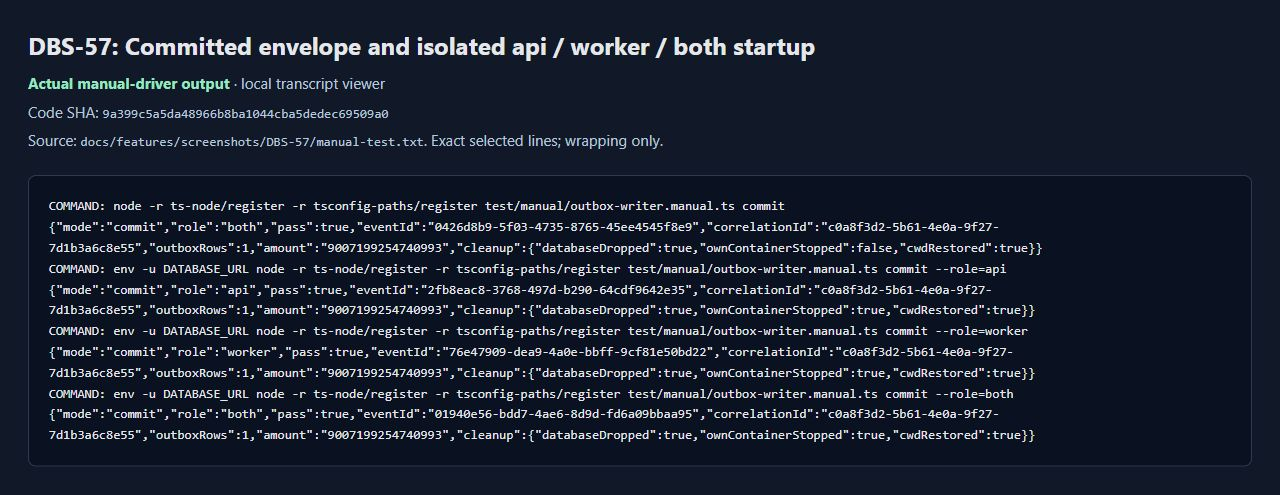
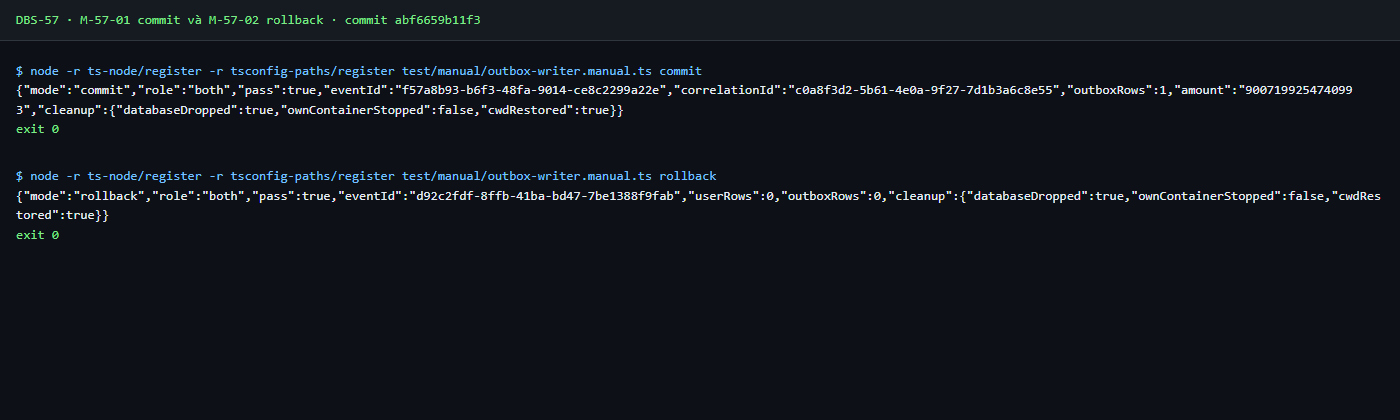
docs(outbox): record DBS-57 round-2 review fixes

diff --git a/docs/features/DBS-57-outbox-writer.md b/docs/features/DBS-57-outbox-writer.md
@@ -497,3 +497,77 @@ Thứ tự migration → service → controller không áp dụng: không có mi
 | Xung đột PR | 4 file | S6 |
 
 **Quyết định ở G3 (vòng 2):** người dùng trả lời «duyệt» ngày 2026-10-31. BL-123 cho bàn giao #3 (kiểm lại khi merge `main`); push một lần sau G4.
+
+### R8. Kết quả vòng 2
+
+**Lệnh kiểm tra** trên HEAD `abf6659` (sau merge `origin/main` `5562884`), tại `backend/`. Output thô ở [verification.txt](screenshots/DBS-57/verification.txt), phần "Vòng 2".
+
+| Lệnh | Kết quả |
+|---|---|
+| `npm run lint:check` | exit 0 |
+| `npm run typecheck` | exit 0 |
+| `npm test -- --runInBand` | 42 suites, 576/576 đạt, 0 skipped |
+| `npm run test:db -- --runInBand` | 12 suites, 248/248 đạt (163,9 s) |
+| `npm run test:e2e -- --runInBand` | 8 suites, 57/57 đạt. Chạy trên container `postgres:17` ở cổng 55432 vì cổng 5432 là PostgreSQL 18 native |
+| `npm run test:services -- --runInBand` | 1 suite, 2/2 đạt (suite mới từ `main`) |
+| `npm run build` | exit 0 |
+
+Không có `.skip`, `.only` hay `.todo` trong test của task. **Full DB đạt trên máy này** (12 suites, không thoát `0xC0000409`), nhưng BL-125 chưa coi là đã sửa: đây là một lượt xanh, không phải bằng chứng nguyên nhân gốc. Thời gian full DB là 163,9 s với 12 suites; riêng bootstrap giảm từ ba container xuống dùng chung một server (24 s cho 3 ca).
+
+**Đối chiếu test case vòng 2.** Đỏ/xanh từng bước ở [tdd-red-green.txt](screenshots/DBS-57/tdd-red-green.txt), phần "Vòng 2".
+
+| ID | Test | Đạt? |
+|---|---|---|
+| TC-57-14 | `outbox-writer.db-spec.ts` › 11 ca `refuses $label before the insert…` (NUL ở giá trị, khóa, mảng lồng; surrogate cao, thấp, trong khóa lồng; cao trước ASCII; thấp-rồi-cao; cao+cặp, cặp+thấp, thấp+cặp) và `still stores valid surrogate pairs…` | đạt; đỏ 11/11 (code cũ chạy tới INSERT: Expected 0, Received 1) |
+| TC-57-15 | `outbox-writer-context.db-spec.ts` › 3 ca (kế thừa context bị `NOT_ALLOWED`; tách bằng `runInContext` không `bindings` ghi được; ngoài mọi context ghi được) | đạt; xanh ngay từ đầu vì khóa hành vi sẵn có |
+| TC-57-13 | `outbox-writer-bootstrap.db-spec.ts` › 3 role dùng `DBS57_BASE_DATABASE_URL`, kỳ vọng `cleanup.ownContainerStopped: false` | đạt; đỏ 3/3 (child in `ownContainerStopped: true`) |
+| TC-57-01…12 | giữ nguyên | đạt (DB spec outbox: 30 + 16 + 3 tests) |
+
+15/15 ca vòng 2 đạt đủ độ sâu, 0 đơn giản hóa. Chưa có ca nào cho giới hạn kích thước payload: ghi ở BL-123.
+
+**Test thủ công** trên commit `abf6659` (commit cuối có đổi code, SHA ở dòng đầu [manual-test.txt](screenshots/DBS-57/manual-test.txt)), chạy đúng script R5, exit 0:
+
+| Bước | Phản hồi thật (rút gọn) | Kết quả |
+|---|---|---|
+| M-57-01 commit | `outboxRows:1`, amount `"9007199254740993"` | đạt |
+| M-57-02 rollback | `userRows:0, outboxRows:0` | đạt |
+| M-57-03 invalid | `refused` gồm `missing-correlation, numeric-money, cycle, nul-in-value, lone-surrogate-in-key`; `userRows:0, outboxRows:0` | đạt |
+| M-57-04 duplicate | `23505`, `outbox_events_event_id_key`, `originalRows:1, recoveredRows:1` | đạt |
+| M-57-05 context | 10 request song song, 10 id riêng; `mismatch NOT_ALLOWED`, `malformed INVALID_FORMAT`, `outsideContextRows:1`, `backgroundInherited NOT_ALLOWED`, `backgroundDetachedRows:1` | đạt |
+| M-57-06 transaction | `refusedManagers:4, outboxRows:0` | đạt |
+| M-57-07 api/worker/both | shell sạch (`env -u` cả hai biến): từng role `pass:true, outboxRows:1, ownContainerStopped:true`, container được dọn | đạt |
+
+**Ảnh** (render từ `manual-test.txt` bằng Chrome headless, mỗi ảnh là một nhóm khối của transcript, không sửa nội dung; thay ba ảnh vòng 1):
+
+![M-57-01/02: commit và rollback](screenshots/DBS-57/01-commit.png)
+
+![M-57-03: lỗi trước INSERT](screenshots/DBS-57/02-rollback-validation.png)
+
+![M-57-04/05/06: duplicate, context, transaction](screenshots/DBS-57/03-duplicate-context.png)
+
+![M-57-03 mới: NUL và surrogate lẻ](screenshots/DBS-57/04-surrogate-nul.png)
+
+![M-57-05 mới: producer nền](screenshots/DBS-57/05-ambient-context.png)
+
+![M-57-07: shell sạch, ba role, tự dựng container](screenshots/DBS-57/06-clean-shell-roles.png)
+
+**Phạm vi so với R7** (`git diff --name-only 5562884 HEAD` trừ file thuộc DBS-57 doc/ảnh): `backend/src/modules/outbox/{outbox-writer.ts,README.md,…}`, `index.ts`/`modules.spec.ts` (merge), `outbox-writer*.db-spec.ts`, `outbox-writer.manual.ts`, `docs/BACKLOG.md`, `docs/features/README.md`. Khớp R3 và R7; không có file lạ. Các file còn lại là phần PR đã có từ vòng 1.
+
+**Lệch so với kế hoạch:**
+
+| Lệch | Lý do | Duyệt |
+|---|---|---|
+| Hai lần ghi file hỏng do công cụ (script Python làm rỗng `outbox-writer.db-spec.ts`; ký tự NUL thật trong `outbox-writer.ts` và driver) | chuỗi `` và surrogate lẻ không ghi được qua Python hay shell; đã khôi phục từ git và ghi lại, tự kiểm 0 byte NUL trong các file cuối | không đổi phạm vi |
+| Tham chiếu BL-053/055 của DBS-57 đổi thành **BL-124/125**; bàn giao #3 là **BL-123** | `main` đã dùng BL-053..057 và tới BL-122 cho DBS-40/41/55 | chỉ đổi ID, nêu ở G4 |
+| BL-002/003/019: giữ DBS-55 làm nguồn trên `main` và thêm DBS-57 vào BL-002, BL-019 | hai nhánh cùng sửa các dòng này | không đổi phạm vi |
+| S4: bước đỏ của driver chạy với writer cũ (`b767935`) thay vì "bỏ lời gọi scan" | cách chạy rõ ràng và tái hiện được hơn | không đổi phạm vi |
+| Ảnh vòng 2 render bằng Chrome headless | cùng nguồn transcript thật | nêu ở G4 |
+
+**Bàn giao:** **BL-123** (Dev #3: producer nền tách bằng `runInContext` không `bindings`; giới hạn kích thước payload theo SQS). Giữ mở: BL-124 (Dev review và merge), BL-125, BL-002/003/009/010/018/019/024. Không có dòng backlog nào được vòng 2 giải quyết.
+
+### R9. Tài liệu đã cập nhật (vòng 2)
+
+- `backend/src/modules/outbox/README.md`: hợp đồng producer nền (BL-123) và quy tắc chuỗi không lưu được.
+- `docs/BACKLOG.md`: thêm BL-123; DBS-57 là BL-124 và BL-125 (đổi ID khi merge `main`); BL-002 và BL-019 giữ cả nguồn DBS-55 lẫn DBS-57.
+- `docs/features/README.md`: cập nhật dòng DBS-57.
+- Feature doc: R1–R9; `screenshots/DBS-57/`: 6 ảnh, `manual-test.txt`, `verification.txt`, `tdd-red-green.txt`, 3 file domain review vòng 2.

diff --git a/backend/src/modules/outbox/README.md b/backend/src/modules/outbox/README.md
@@ -20,6 +20,10 @@ Input phải qua `assertEvent` của `@common/events`; writer chụp JSON đồn
 
 `correlationId` trong input luôn bắt buộc và hợp lệ. Writer đọc context ALS hiện có qua public `PinoLogger.logger.bindings()`: thiếu/null dùng `event.correlationId`; context hợp lệ phải trùng `event.correlationId`; mismatch hoặc context sai bị từ chối trước INSERT. Không tạo ID mới hoặc ghi đè để che lỗi producer. Provider context chung xuyên worker/message vẫn thuộc DBS-43.
 
+**Producer chạy nền (BL-123).** Context này sống theo async context của request: một relay hay consumer được khởi động từ bên trong một request giữ nguyên `correlationId` của request đó, nên mọi event mang id khác bị từ chối `NOT_ALLOWED`. Producer nền phải **tách** bằng `logger.runInContext(callback)` **không truyền `bindings`** (mặc định `inherit: false` tạo store mới từ logger gốc), hoặc ghi event mang đúng id của context. Khởi động từ ngoài mọi request thì không cần tách. Hành vi này được khóa bằng TC-57-15.
+
+**Chuỗi không lưu được.** Trường mở rộng được phép (`allowUnknown`), nhưng PostgreSQL jsonb không lưu được ký tự NUL (U+0000) hay surrogate lẻ (ví dụ `�`), ở giá trị lẫn khóa. Writer từ chối chúng trước INSERT bằng `InvalidEventError` với một issue `{ path: '', code: 'INVALID_FORMAT' }`, thông điệp không chứa giá trị, và cả transaction của caller rollback như mọi lỗi validate khác (TC-57-14). Cặp surrogate hợp lệ (emoji) vẫn được lưu. Giới hạn kích thước payload (jsonb từ chối chuỗi quá 268 435 455 byte) chưa có: BL-123.
+
 `TransferCompleted.occurredAt` do producer lấy từ `transfers.created_at` của DB rồi chuyển `Date#toISOString()`; writer chỉ kiểm/bảo toàn, không chứng minh nguồn thời gian. Relay/giao hàng và producer nghiệp vụ chưa được cung cấp bởi writer. [Hợp đồng sự kiện](../../../../docs/components/_shared/event-contract.md) · [Hồ sơ và bằng chứng DBS-57](../../../../docs/features/DBS-57-outbox-writer.md).
 
 ## Phải giữ

diff --git a/docs/features/README.md b/docs/features/README.md
@@ -44,7 +44,7 @@ Lỗi không có mã trên board dùng tên `BUG-YYYYMMDD-<slug>.md`.
 | [DBS-33](DBS-33-terraform-vpc-ecr.md) | Terraform: VPC 2 AZ, gateway endpoint S3 và ECR `dbs-api` (stack `envs/dev/base`) | #5 Platform & Ops | Implemented |
 | [DBS-50](DBS-50-jwt-auth-guard-jwks.md) | Identity: JwtAuthGuard xác minh JWT bằng JWKS có cache, guard toàn cục mặc định | Dev | Implemented |
 | [DBS-55](DBS-55-accounts-service.md) | AccountsService: khóa theo id, đổi số dư trong caller transaction và ownership 404; vòng 2 (2026-10-31) bắt buộc đã khóa ở cấp ngoài cùng, lỗi có kiểu, `clock_timestamp()` | Dev | Implemented; G4 đã duyệt, [Draft PR #33](https://github.com/Lawliet119/digital-banking-simulator/pull/33); CI theo Checks, chờ Dev review/merge; TC 15/15 và manual 5/6 đạt, M-55-06 chờ ledger/audit; E2E local còn lỗi logging timeout |
-| [DBS-57](DBS-57-outbox-writer.md) | OutboxWriter: INSERT validated envelope trong transaction caller, correlation ALS nhất quán | Dev | Implemented; [Draft PR #34](https://github.com/Lawliet119/digital-banking-simulator/pull/34), chờ Dev review/merge; full DB local native exit còn mở |
+| [DBS-57](DBS-57-outbox-writer.md) | OutboxWriter: INSERT validated envelope trong transaction caller, correlation ALS nhất quán; vòng 2 (2026-10-31) từ chối chuỗi jsonb không lưu được, khóa hợp đồng context cho producer nền | Dev | Implemented; [Draft PR #34](https://github.com/Lawliet119/digital-banking-simulator/pull/34), chờ Dev review/merge; full DB đạt 12 suites trên máy này nhưng BL-125 chưa đóng |
 | [DBS-34](DBS-34-terraform-ecs-alb.md) | Terraform: ECS Fargate cluster, service api và ALB HTTPS (nhóm xóa hằng ngày) | #5 Platform & Ops | Implemented |
 | [DBS-54](DBS-54-terraform-cognito.md) | Terraform: Cognito user pool, 4 nhóm, app client và script seed tài khoản nhân viên demo | #5 Platform & Ops | Implemented |
 | [DBS-38](DBS-38-auto-deploy-ecs.md) | Deploy tự động: push main → image mới → ECS → /health/ready (role OIDC riêng, `deploy.sh`) | #5 Platform & Ops | Implemented |
